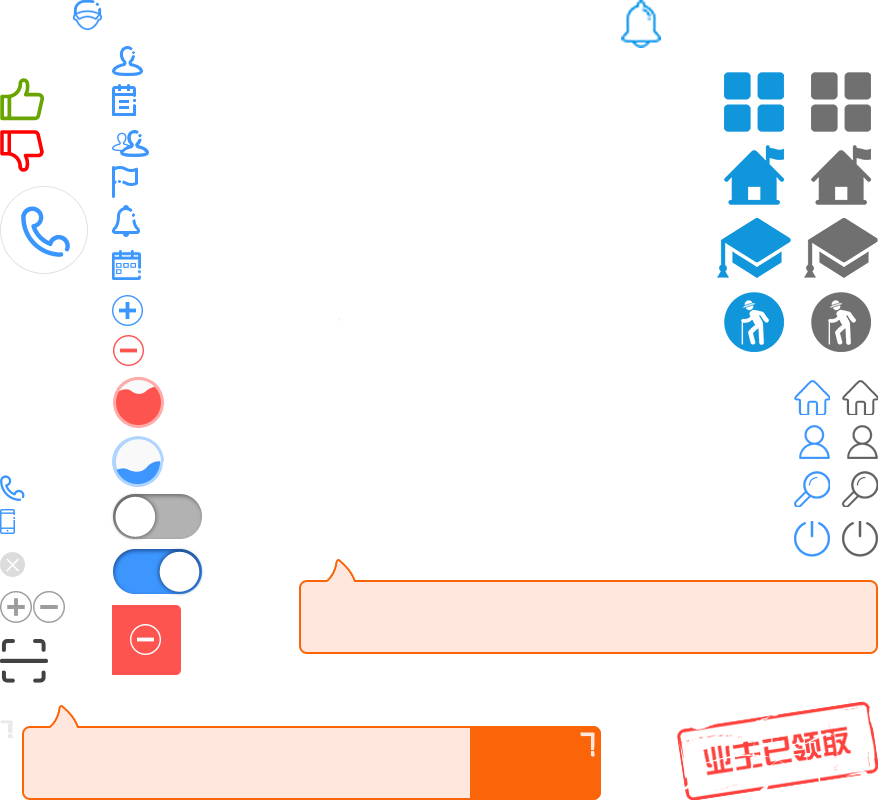
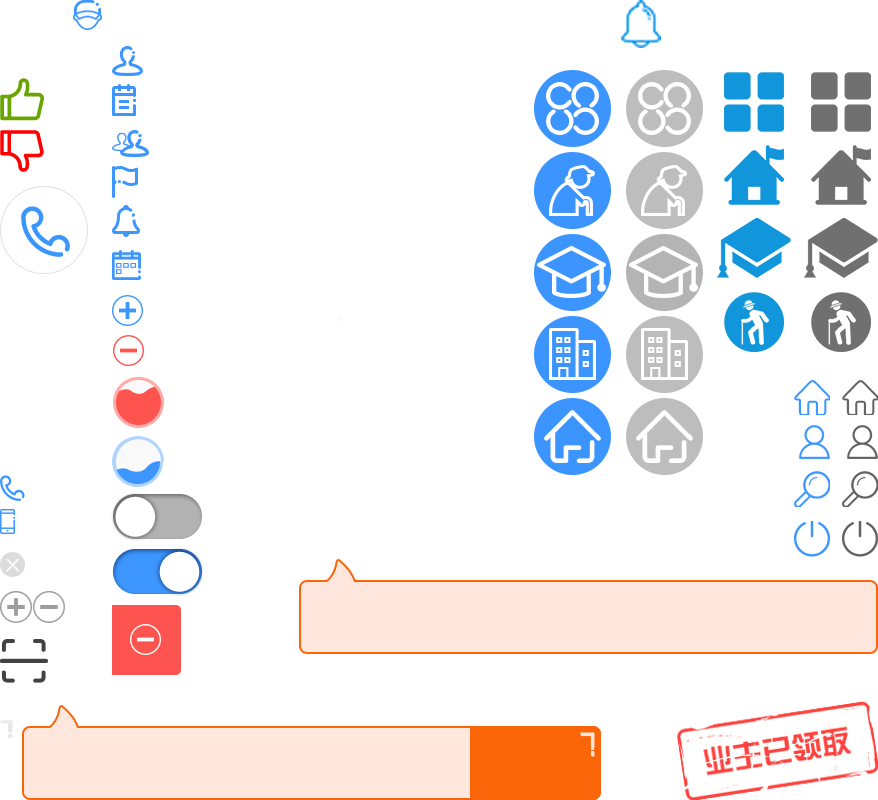
增加小区类别居委会

Changed region(s): [[0.5843, 0.0625, 0.7995, 0.5938]]

diff --git a/css/wy-layout.css b/css/wy-layout.css
@@ -1928,13 +1928,13 @@ header a i.icon-nme {
   color: #666;
 }
 .sort-tab ul li{
-  width: 25%;
+  width: 20%;
   float: left;
 }
 .sort-tab ul li i{
   display: block;
-  width: 37px;
-  height: 30px;
+  width: 40px;
+  height: 40px;
   margin: 10px auto;
 }
 .sort-tab ul li span{
@@ -1944,7 +1944,7 @@ header a i.icon-nme {
 .sort-tab ul li.cur span{
   color: #1296db;
 }
-.sort-tab ul li i.icon1{
+/*.sort-tab ul li i.icon1{
   background-position: right -36px;
 }
 .sort-tab ul li i.icon2{
@@ -1967,6 +1967,36 @@ header a i.icon-nme {
 }
 .sort-tab ul li.cur i.icon4{
   background-position: -358px -146px;
+}*/
+.sort-tab ul li i.icon1{
+  background-position: -313px -35px;
+}
+.sort-tab ul li i.icon2{
+  background-position: -313px -76px;
+}
+.sort-tab ul li i.icon3{
+  background-position: -313px -117px;
+}
+.sort-tab ul li i.icon4{
+  background-position: -313px -158px;
+}
+.sort-tab ul li i.icon5{
+  background-position: -313px -198px;
+}
+.sort-tab ul li.cur i.icon1{
+  background-position: -267px -35px;
+}
+.sort-tab ul li.cur i.icon2{
+  background-position: -267px -76px;
+}
+.sort-tab ul li.cur i.icon3{
+  background-position: -267px -117px;
+}
+.sort-tab ul li.cur i.icon4{
+  background-position: -267px -158px;
+}
+.sort-tab ul li.cur i.icon5{
+  background-position: -267px -198px;
 }
 /*24800--增加身份编号认证流程*/
 .add-tab{

diff --git a/xuanzexiaoqu.html b/xuanzexiaoqu.html
@@ -37,15 +37,19 @@
             </li>
             <li class="">
               <i class="all_bg_daishou icon2"></i>
-              <span>物业</span>
+              <span>养老</span>
             </li>
             <li class="">
               <i class="all_bg_daishou icon3"></i>
-              <span>教育机构</span>
+              <span>教育</span>
             </li>
             <li class="">
               <i class="all_bg_daishou icon4"></i>
-              <span>养老院</span>
+              <span>小区</span>
+            </li>
+            <li class="">
+              <i class="all_bg_daishou icon5"></i>
+              <span>居委会</span>
             </li>
           </ul>
         </div>
